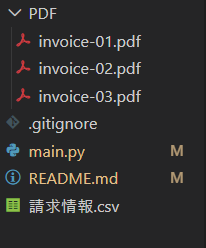
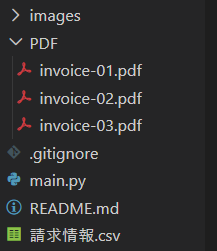
CLI完成

diff --git a/app.py b/app.py
@@ -1,0 +1,11 @@
+import streamlit as st 
+
+st.title("請求書PDF情報抽出ツール")
+
+uploaded_file = st.file_uploader("PDFを選択してください")
+
+st.write(uploaded_file)
+st.write(type(uploaded_file))
+st.write(uploaded_file.name)
+
+st.write(type(uploaded_file.getvalue()))

diff --git a/main.py b/main.py
@@ -142,7 +142,7 @@ for filename in os.listdir("PDF"):
         result = extract_information_from_pdf(pdf_path)
         all_data.append(result)
 
-#デバッグ用にファイル名と抽出結果を表示します。
+#抽出結果を表示します。
 print(all_data)
 
 

diff --git a/README.md b/README.md
@@ -7,10 +7,15 @@
 ## プロジェクト構成
 ![プロジェクト構成](images/project_structure.png)
 
+## 実行結果
+![実行結果](images/execution_result.png)
+
+## 出力CSV
+![出力CSV](images/output_csv.png)
+
 ## 制作背景
 
 請求書の内容を1ファイルずつ目視で確認し、Excelへ手入力する作業には時間がかかります。
-
 そこで、請求書PDFから必要な情報を自動で抽出し、CSVへ出力することで転記作業の効率化を目的として開発しました。
 
 ## 主な機能
@@ -20,6 +25,35 @@
 * 請求日の抽出
 * 請求金額の抽出
 * CSVファイルへの出力
+
+### 実行例
+入力ファイル
+
+invoice-01.pdf
+invoice-02.pdf
+invoice-03.pdf
+
+↓
+
+出力結果
+```python
+
+[
+    {'company': '株式会社 〇〇', 'date': '2025-04-30', 'money': 330000},
+    {'company': '株式会社ひつじ', 'date': '2024-04-30', 'money': 33000},
+    {'company': 'サンプル株式会社', 'date': '2022-05-01', 'money': 539}
+]
+```
+
+↓
+
+出力CSV
+```csv
+会社名,請求日,請求金額
+株式会社 〇〇,2025-04-30,330000
+株式会社ひつじ,2024-04-30,33000
+サンプル株式会社,2022-05-01,539
+```
 
 ## 使用技術
 
@@ -54,31 +88,6 @@
 1. 「請求金額」と同じ行にある金額を取得
 2. 「請求金額」の次の行にある金額を取得
 3. 「請求金額」周辺の情報から最大金額を推定
-
-### 実行例
-入力ファイル
-
-invoice-01.pdf
-invoice-02.pdf
-invoice-03.pdf
-
-↓
-
-出力結果
-[
-    {'company': '株式会社 〇〇', 'date': '2025-04-30', 'money': 330000}, 
-    {'company': '株式会社ひつじ', 'date': '2024-04-30', 'money': 33000}, 
-    {'company': 'サンプル株式会社', 'date': '2022-05-01', 'money': 539}
-]
-
-↓
-
-出力CSV
-
-会社名,請求日,請求金額
-株式会社 〇〇,2025-04-30,330000
-株式会社ひつじ,2024-04-30,33000
-サンプル株式会社,2022-05-01,539
 
 ## 今後の改善点
 
